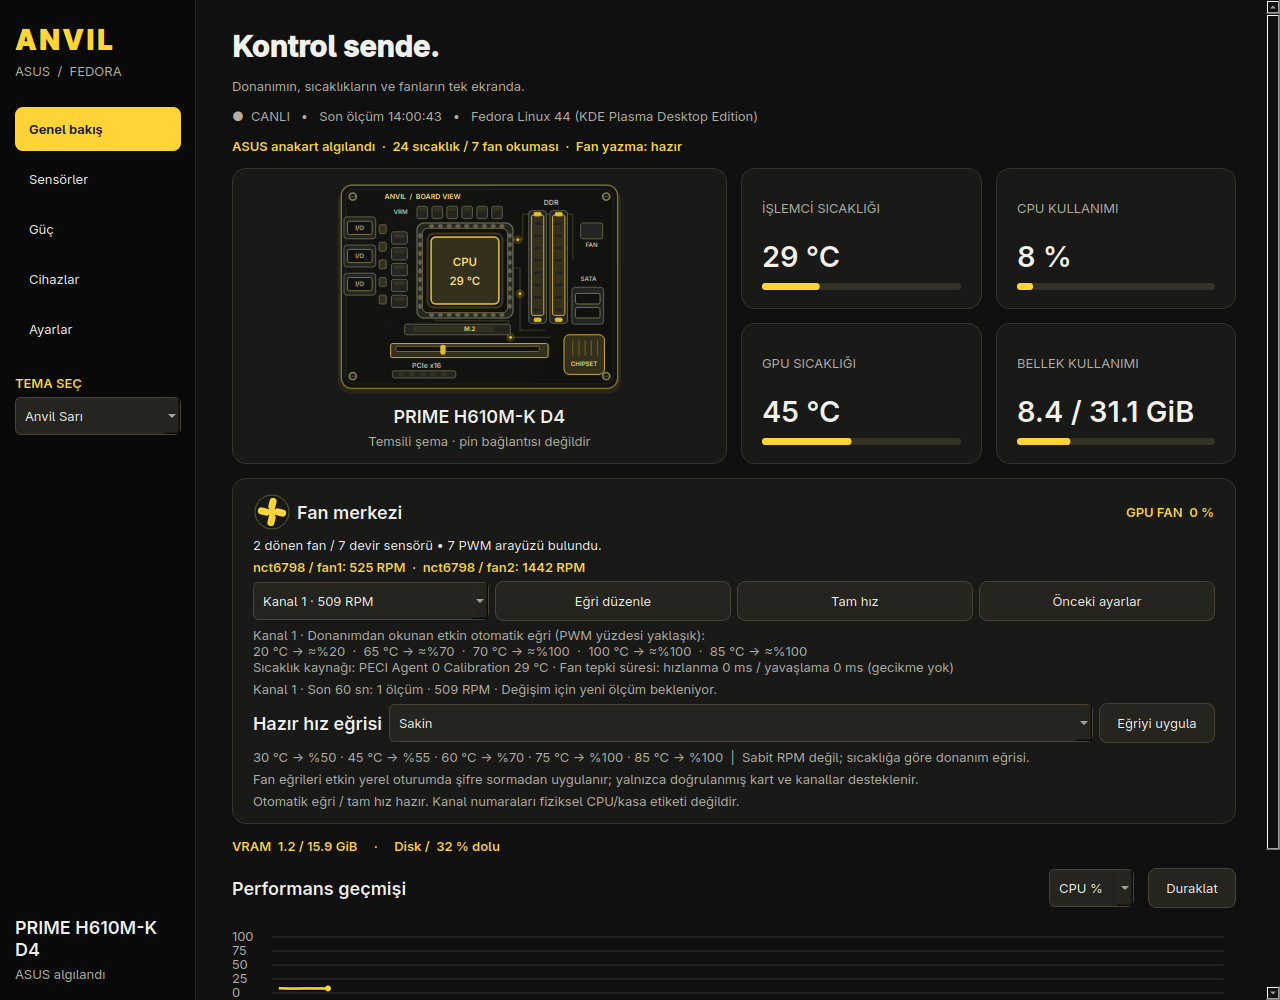
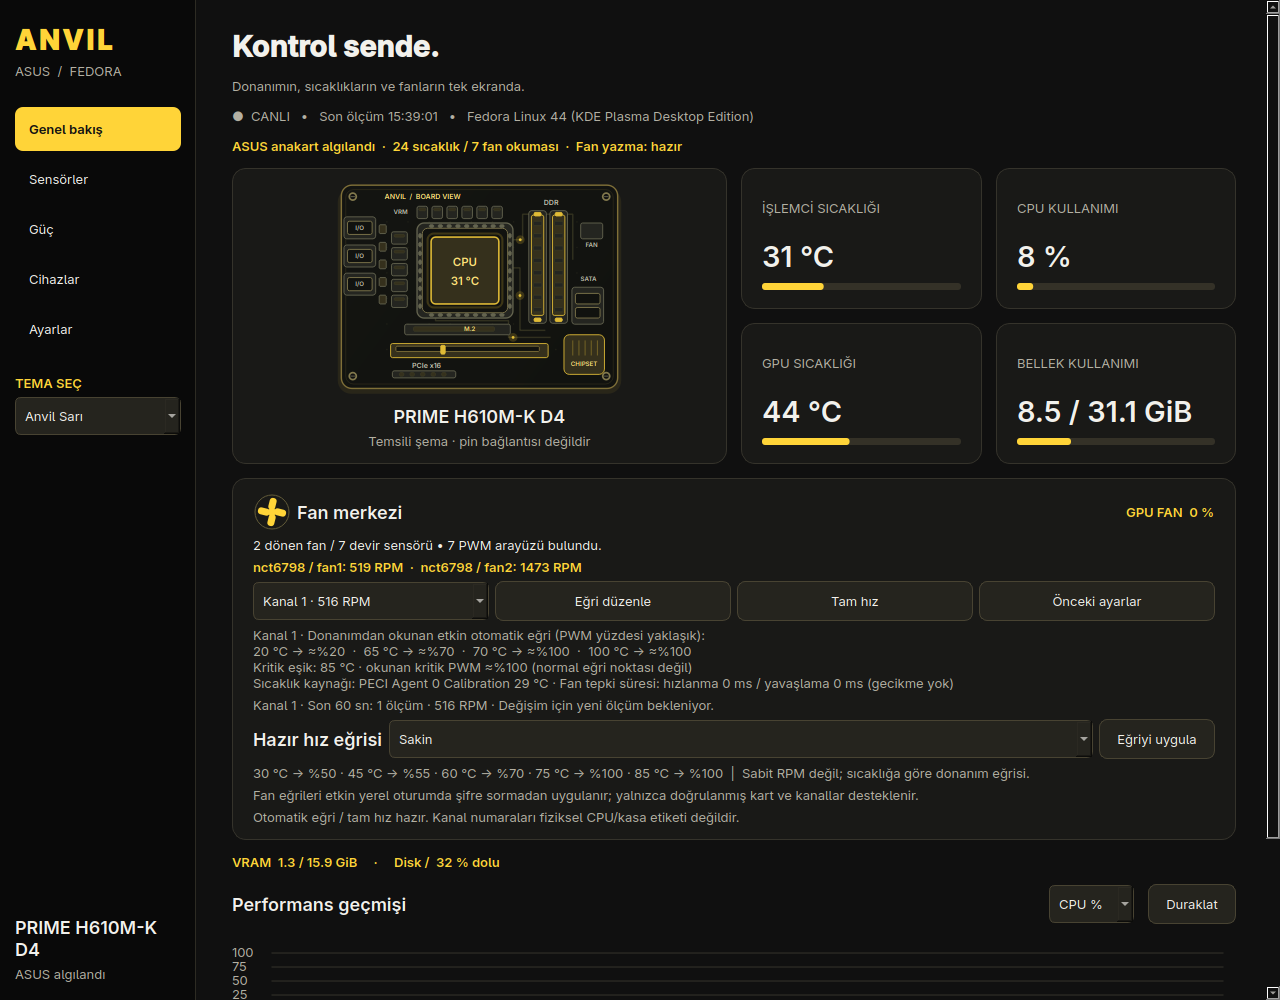
Distinguish critical fan threshold from curve slopes

diff --git a/tests/test_fan_ui.py b/tests/test_fan_ui.py
@@ -43,7 +43,7 @@ class FanUiTests(unittest.TestCase):
         current = hardware_fan_curve_text(channel(2, 1400))
         self.assertIn('Donanımdan okunan etkin otomatik eğri', current)
         self.assertIn('20 °C → ≈%20', current)
-        self.assertIn('70 °C → ≈%100', current)
+        self.assertIn('Kritik eşik: 70 °C · okunan kritik PWM ≈%100', current)
         self.assertIn('PECI Agent 0 31 °C', current)
         self.assertIn('hızlanma 0 ms / yavaşlama 0 ms', current)
         self.assertIn('gecikme yok', current)
@@ -53,6 +53,14 @@ class FanUiTests(unittest.TestCase):
         broken = channel(2, 1400, points=[[20, None]])
         self.assertIn('beş noktanın tamamı okunamadı', hardware_fan_curve_text(broken))
         self.assertIn('yalnızca önizlemedir', hardware_fan_curve_text(None))
+
+    def test_critical_threshold_is_separate_from_normal_curve_slopes(self):
+        unusual = channel(2, 1400, points=[[20, 20], [35, 35], [50, 50], [100, 80], [85, 70]])
+        text = hardware_fan_curve_text(unusual)
+        self.assertIn('100 °C → ≈%80', text)
+        self.assertIn('Kritik eşik: 85 °C · okunan kritik PWM ≈%70', text)
+        self.assertNotIn('85 °C → ≈%70', text)
+        self.assertNotIn('tam hız', text)
 
     def test_selection_and_live_readback_follow_selected_channel(self):
         with tempfile.TemporaryDirectory() as directory:

diff --git a/tests/test_backend.py b/tests/test_backend.py
@@ -94,12 +94,23 @@ class BackendTests(unittest.TestCase):
     def test_missing_measurement_is_not_zero(self):
         self.assertIsNone(number('/path/that/does/not/exist'))
 
+    def test_nonfinite_sysfs_measurements_are_unavailable(self):
+        with tempfile.TemporaryDirectory() as directory:
+            reading = Path(directory) / 'fan1_input'
+            for value in ('nan', 'inf', '-inf', '1e9999'):
+                with self.subTest(value=value):
+                    reading.write_text(value)
+                    self.assertIsNone(number(reading))
+            reading.write_text('1200')
+            self.assertEqual(number(reading), 1200)
+
     def test_sensor_units_and_bad_reading(self):
         with tempfile.TemporaryDirectory() as d:
             hw = Path(d) / 'hwmon0'
             hw.mkdir()
             for name, value in {'name':'coretemp', 'temp1_label':'Package', 'temp1_input':'42500',
-                                'fan1_input':'1200', 'temp2_input':'error'}.items():
+                                'fan1_input':'1200', 'temp2_input':'error',
+                                'temp3_input':'nan', 'fan2_input':'inf'}.items():
                 (hw/name).write_text(value)
             values = sensors(Path(d))
             self.assertEqual(len(values), 2)

diff --git a/anvil/app.py b/anvil/app.py
@@ -458,8 +458,12 @@ def hardware_fan_curve_text(item):
                    or any(not isinstance(value, (int, float)) or not math.isfinite(value)
                           for value in point) for point in points)):
         return prefix + state + ': beş noktanın tamamı okunamadı.' + ('\n' + ' · '.join(details) if details else '')
-    values = '  ·  '.join(f'{temp:g} °C → ≈%{speed:.0f}' for temp, speed in points)
-    return prefix + state + ' (PWM yüzdesi yaklaşık):\n' + values + ('\n' + ' · '.join(details) if details else '')
+    values = '  ·  '.join(f'{temp:g} °C → ≈%{speed:.0f}' for temp, speed in points[:-1])
+    critical_temp, critical_pwm = points[-1]
+    critical = (f'Kritik eşik: {critical_temp:g} °C · okunan kritik PWM ≈%{critical_pwm:.0f}'
+                ' (normal eğri noktası değil)')
+    return (prefix + state + ' (PWM yüzdesi yaklaşık):\n' + values + '\n' + critical
+            + ('\n' + ' · '.join(details) if details else ''))
 
 
 def percent(part, total):

diff --git a/anvil/backend.py b/anvil/backend.py
@@ -1,6 +1,7 @@
 """Read-only hardware discovery and an explicitly invoked power-profile adapter."""
 import ctypes as C
 import json
+from math import isfinite
 import platform
 import shutil
 import subprocess
@@ -25,8 +26,9 @@ def run(args):
 
 def number(path, divisor=1):
     try:
-        return float(read(path)) / divisor
-    except (ValueError, ZeroDivisionError):
+        value = float(read(path)) / divisor
+        return value if isfinite(value) else None
+    except (ValueError, ZeroDivisionError, OverflowError):
         return None
 
 

diff --git a/tests/smoke_ui.py b/tests/smoke_ui.py
@@ -95,6 +95,7 @@ def check():
         assert 'GPU FAN' in w.gpu_fan.text()
         if w.fan_channel.currentData() is not None:
             assert 'RPM' in w.fan_trend_info.text(), 'Selected channel should show its read-only RPM history'
+            assert 'Kritik eşik:' in w.fan_curve_info.text(), 'Fifth hardware point is a critical threshold'
         assert w.preset_combo.count() == 3
         assert 'Sabit RPM değil' in w.preset_info.text()
         assert w.theme_combo.count() == len(THEMES) == 7

diff --git a/anvil/__init__.py b/anvil/__init__.py
@@ -1,1 +1,1 @@
-__version__ = '0.13.1'
+__version__ = '0.13.2'

diff --git a/README.md b/README.md
@@ -33,7 +33,7 @@ Bu nedenle uygulama farklı ASUS sistemlerinde genel izleme için kullanılabili
 [Sürümlerden](https://github.com/Tubix777/anvil-control/releases) RPM’yi indirin:
 
 ```bash
-sudo dnf install ./anvil-control-0.13.1-1.fc44.noarch.rpm
+sudo dnf install ./anvil-control-0.13.2-1.fc44.noarch.rpm
 anvil-control
 ```
 
@@ -52,6 +52,8 @@ Ana sayfadaki anakartın katmanlı üstten görünüşü CPU, RAM, PCIe, M.2 ve 
 Ana sayfadaki fan merkezinde **Sakin**, **Dengeli** ve **Yüksek soğutma** hazır sıcaklık eğrileri seçilebilir; **Eğriyi uygula** seçili, doğrulanmış anakart kanalına yazar. Bunlar sabit RPM hedefleri değildir. 75 ve 85 °C noktalarında tüm hazır eğriler %100 PWM uygular. **Önceki ayarlar** bu açılıştaki ilk değişiklik öncesine döner. GPU fanı için yazma denetimi sunulmaz.
 
 Doğrulanmış fan kanallarının seçiminde anlık RPM gösterilir. Yalnız bir kanal dönüyorsa başlangıçta o öne alınır; elle seçtiğiniz kanal korunur. Seçili kanalın donanımdan okunan **mevcut eğrisi** ve varsa PECI kaynak sıcaklığı ile fan tepki süreleri hazır eğri önizlemesinden ayrı görünür. Bu değerler ani fan hızlanmasını incelemeye yardımcı olur; fan tepki süresini bu sürümde değiştirmez.
+
+NCT6798 Smart Fan IV’te okunan ilk dört nokta normal eğridir; beşinci nokta ayrı bir kritik sıcaklık eşiğidir. Arayüz kritik PWM geri okumasını gösterir, ancak eşikte mutlaka %100 devir olacağını iddia etmez. Kritik eşik dördüncü noktadan düşük sıcaklıkta bulunabilir; bu yüzden beşinci nokta normal artan eğri adımı gibi yorumlanmamalıdır.
 
 Seçili doğrulanmış kanalın son 60 saniyedeki RPM aralığı ve son iki geçerli ölçüm arasındaki fark da ana sayfada görünür. Bu geçmiş yalnızca uygulama açıkken bellekte tutulur, raporlara eklenmez ve ani artışın nedenini tek başına açıklamaz. Başka ASUS modellerinde yazılabilir kanal doğrulanmadıkça bu kanal geçmişi gösterilmez; genel sensör okumaları yine görülebilir.
 
@@ -82,7 +84,7 @@ python3 -m unittest discover -s tests -v
 QT_QPA_PLATFORM=offscreen PYTHONPATH=. python3 tests/smoke_ui.py
 ```
 
-52 birim testi ve gerçek sensör telemetrisiyle beş bölümlü arayüz testi. Smoke testi yalnızca mevcut sistemde çalışır. Bu bağımsız alpha proje ASUS/Fedora tarafından onaylanmamıştır. Anakart çizimi temsili şemadır, pin bağlantısı değildir. AMD GPU desteği sysfs fikstürleriyle sınandı; gerçek AMD donanımında henüz doğrulanmadı. JSON tanılama raporunu paylaşmadan önce içeriğini inceleyin; raporda kart/BIOS, PCI ve sensör bilgileri bulunur.
+54 birim testi ve gerçek sensör telemetrisiyle beş bölümlü arayüz testi. Smoke testi yalnızca mevcut sistemde çalışır. Bu bağımsız alpha proje ASUS/Fedora tarafından onaylanmamıştır. Anakart çizimi temsili şemadır, pin bağlantısı değildir. AMD GPU desteği sysfs fikstürleriyle sınandı; gerçek AMD donanımında henüz doğrulanmadı. JSON tanılama raporunu paylaşmadan önce içeriğini inceleyin; raporda kart/BIOS, PCI ve sensör bilgileri bulunur.
 
 ## English
 

diff --git a/CHANGELOG.md b/CHANGELOG.md
@@ -1,5 +1,11 @@
 # Değişiklikler
 
+## 0.13.2 — 2026-09-24
+
+- NCT6798 Smart Fan IV donanım eğrisindeki beşinci nokta artık normal eğri adımı yerine ayrı **kritik eşik** olarak gösteriliyor. Eşikteki PWM geri okuması aynen belirtiliyor; %100’den düşükse tam hız varsayılmıyor.
+- Sysfs’ten gelen `NaN` ve sonsuz sensör okumaları artık geçerli sıcaklık veya RPM gibi gösterilmiyor.
+- Bu sürüm fan donanımına yazmıyor; güç profili ve yetki modeli değişmedi.
+
 ## 0.13.1 — 2026-09-24
 
 - İzleme duraklatıldığında veya ölçüm başarısız olduğunda fan kanalındaki RPM ve donanım eğrisi son okuma olarak işaretleniyor; eski geçmiş artık canlı “son 60 sn” gibi sunulmuyor.
